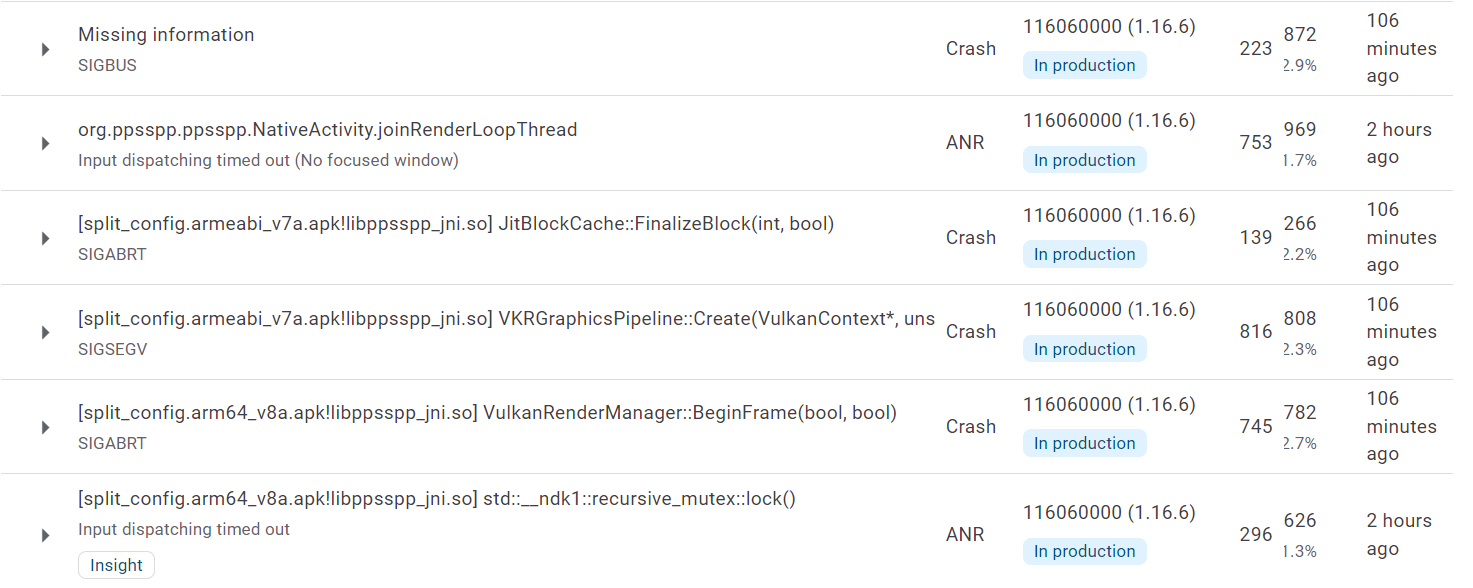
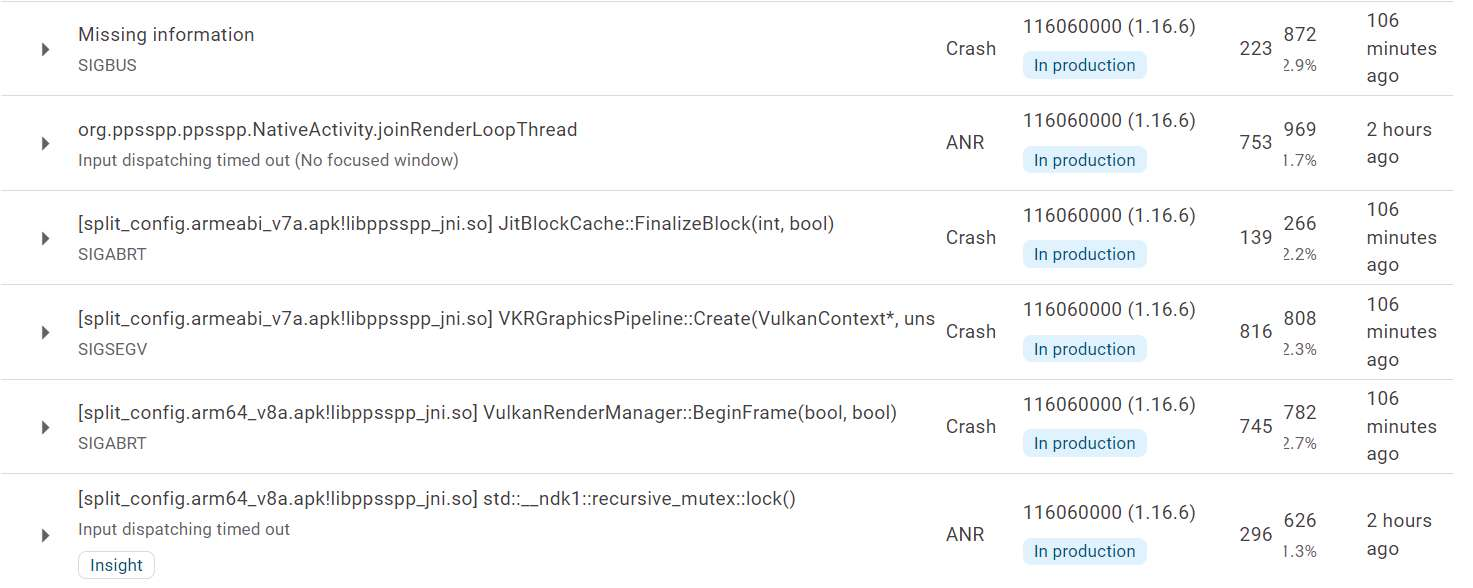
Compress play-console.jpg

diff --git a/docs/reference/android-release-process.md b/docs/reference/android-release-process.md
@@ -8,7 +8,7 @@ This is because unlike on PC, on Android we are able to do something called a ro
 
 They look like this:
 
-![Screenshot of Play Console]("/static/img/blog/1.17-release/play-console-1.png")
+![Screenshot of Play Console](/static/img/docs/android_build_process/play-console.jpg)
 
 ANR means "Application Not Responding", that is, a hang. These can be tricky to figure out.
 
